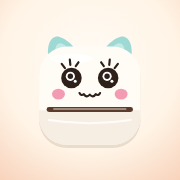
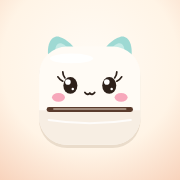
Cuter mascot face, clarify paper width options
Claude-Session: https://claude.ai/code/session_019e3KwpeE8j9ss5236kS2wN

Changed region(s): [[0.2778, 0.3056, 0.7222, 0.5833]]

diff --git a/index.html b/index.html
@@ -252,21 +252,18 @@ h2{font-size:clamp(30px,5vw,52px);line-height:1.08}
           <rect x="40" y="152" width="160" height="9" rx="4.5" fill="#5A3B2C"/>
           <rect x="52" y="154" width="136" height="3" rx="1.5" fill="#B9A595"/>
           <path d="M44 176 Q120 188 196 176" stroke="#FFFFFF" stroke-width="4" fill="none" stroke-linecap="round" opacity=".8"/>
-          <!-- face -->
+          <!-- face: big soft eyes, tiny mouth -->
           <g class="eyes">
-            <g stroke="#2E211A" stroke-width="4" stroke-linecap="round">
-              <path d="M74 80 L68 72"/><path d="M84 74 L83 64"/><path d="M94 76 L99 69"/>
-              <path d="M146 76 L141 69"/><path d="M156 74 L157 64"/><path d="M166 80 L172 72"/>
-            </g>
-            <circle cx="86" cy="98" r="19" fill="#2E211A"/>
-            <circle cx="154" cy="98" r="19" fill="#2E211A"/>
-            <circle cx="84" cy="95" r="8.5" fill="#FFFFFF"/><circle cx="84" cy="95" r="5" fill="#2E211A"/>
-            <circle cx="152" cy="95" r="8.5" fill="#FFFFFF"/><circle cx="152" cy="95" r="5" fill="#2E211A"/>
-            <circle cx="93" cy="104" r="2.8" fill="#FFFFFF"/><circle cx="161" cy="104" r="2.8" fill="#FFFFFF"/>
+            <path d="M70 104 Q64 101 61 96 M74 98 Q70 93 70 87" stroke="#2E211A" stroke-width="3.2" fill="none" stroke-linecap="round"/>
+            <path d="M170 104 Q176 101 179 96 M166 98 Q170 93 170 87" stroke="#2E211A" stroke-width="3.2" fill="none" stroke-linecap="round"/>
+            <ellipse cx="84" cy="112" rx="13" ry="15.5" fill="#2E211A"/>
+            <ellipse cx="156" cy="112" rx="13" ry="15.5" fill="#2E211A"/>
+            <circle cx="79.5" cy="105.5" r="5.2" fill="#FFFFFF"/><circle cx="151.5" cy="105.5" r="5.2" fill="#FFFFFF"/>
+            <circle cx="88.5" cy="118.5" r="2.3" fill="#FFFFFF"/><circle cx="160.5" cy="118.5" r="2.3" fill="#FFFFFF"/>
           </g>
-          <ellipse cx="62" cy="128" rx="12" ry="10" fill="#F39BB2"/>
-          <ellipse cx="178" cy="128" rx="12" ry="10" fill="#F39BB2"/>
-          <path d="M101 126 Q104 132 109 128 Q114 136 120 129 Q126 136 131 128 Q136 132 139 126" stroke="#2E211A" stroke-width="4" fill="none" stroke-linecap="round" stroke-linejoin="round"/>
+          <ellipse cx="62" cy="134" rx="12" ry="8" fill="#F7A8BB"/>
+          <ellipse cx="178" cy="134" rx="12" ry="8" fill="#F7A8BB"/>
+          <path d="M111 125 Q115.5 131 120 126 Q124.5 131 129 125" stroke="#2E211A" stroke-width="3.4" fill="none" stroke-linecap="round" stroke-linejoin="round"/>
         </svg>
       </div>
       <div class="ground" aria-hidden="true"></div>
@@ -342,14 +339,13 @@ h2{font-size:clamp(30px,5vw,52px);line-height:1.08}
           <rect x="30" y="14" width="200" height="98" rx="42" fill="#FFFBF5"/>
           <ellipse cx="88" cy="28" rx="36" ry="6" fill="#FFFFFF" opacity=".9"/>
           <g class="eyes">
-            <circle cx="102" cy="52" r="14" fill="#2E211A"/><circle cx="158" cy="52" r="14" fill="#2E211A"/>
-            <circle cx="100" cy="50" r="6.2" fill="#FFFFFF"/><circle cx="100" cy="50" r="3.6" fill="#2E211A"/>
-            <circle cx="156" cy="50" r="6.2" fill="#FFFFFF"/><circle cx="156" cy="50" r="3.6" fill="#2E211A"/>
-            <circle cx="107" cy="57" r="2.2" fill="#FFFFFF"/><circle cx="163" cy="57" r="2.2" fill="#FFFFFF"/>
+            <ellipse cx="104" cy="56" rx="10" ry="12" fill="#2E211A"/><ellipse cx="156" cy="56" rx="10" ry="12" fill="#2E211A"/>
+            <circle cx="100.5" cy="51" r="4" fill="#FFFFFF"/><circle cx="152.5" cy="51" r="4" fill="#FFFFFF"/>
+            <circle cx="107.5" cy="61" r="1.8" fill="#FFFFFF"/><circle cx="159.5" cy="61" r="1.8" fill="#FFFFFF"/>
           </g>
-          <ellipse cx="78" cy="74" rx="10" ry="8" fill="#F39BB2"/>
-          <ellipse cx="182" cy="74" rx="10" ry="8" fill="#F39BB2"/>
-          <path class="mouth" d="M114 72 Q116 76 120 74 Q124 79 130 74 Q136 79 140 74 Q144 76 146 72" stroke="#2E211A" stroke-width="3.5" fill="none" stroke-linecap="round" stroke-linejoin="round"/>
+          <ellipse cx="84" cy="72" rx="10" ry="6.5" fill="#F7A8BB"/>
+          <ellipse cx="176" cy="72" rx="10" ry="6.5" fill="#F7A8BB"/>
+          <path class="mouth" d="M123 69 Q126.5 74 130 70 Q133.5 74 137 69" stroke="#2E211A" stroke-width="3" fill="none" stroke-linecap="round" stroke-linejoin="round"/>
           <rect x="54" y="98" width="152" height="12" rx="6" fill="#5A3B2C"/>
         </g>
       </svg>
@@ -371,7 +367,7 @@ h2{font-size:clamp(30px,5vw,52px);line-height:1.08}
       <p id="btStatus">Принтер не подключён</p>
       <p>Включите принтер, нажмите «Подключить» и выберите его в списке. Делать это нужно после каждого перезапуска страницы, если принтер не подхватился сам.</p>
       <div class="staff-row"><label for="pwSel">Ширина ленты</label>
-        <select id="pwSel"><option value="384">57 мм (384 точки)</option><option value="576">80 мм (576 точек)</option></select></div>
+        <select id="pwSel"><option value="384">57 мм (384 точки)</option><option value="576">80 мм (только для больших чековых принтеров)</option></select></div>
       <div class="staff-row"><label for="protoSel">Протокол</label>
         <select id="protoSel"><option value="auto">Определить самому</option><option value="cat">Мини-принтер (Fun Print и подобные)</option><option value="escpos">ESC/POS (Phomemo, чековые)</option></select></div>
       <div class="staff-row"><label for="chunkSel">Размер пакета</label>
@@ -395,7 +391,7 @@ h2{font-size:clamp(30px,5vw,52px);line-height:1.08}
 
 <script>
 /* ===== Settings for the cafe ===== */
-const APP_VERSION = '1.5';
+const APP_VERSION = '1.6';
 const CONFIG = {
   cafeName: 'Ваша кофейня',        // printed at the top of the receipt
   handleLabel: 'Мы в сети',        // line above the handle, no platform named

diff --git a/sw.js b/sw.js
@@ -1,6 +1,6 @@
 /* Photo booth service worker: works offline, picks up new versions when online.
    Bump CACHE on every release. */
-const CACHE = 'booth-v1.5';
+const CACHE = 'booth-v1.6';
 const CORE = ['./', './index.html', './manifest.webmanifest', './icon-192.png', './icon-512.png'];
 
 self.addEventListener('install', e => {
